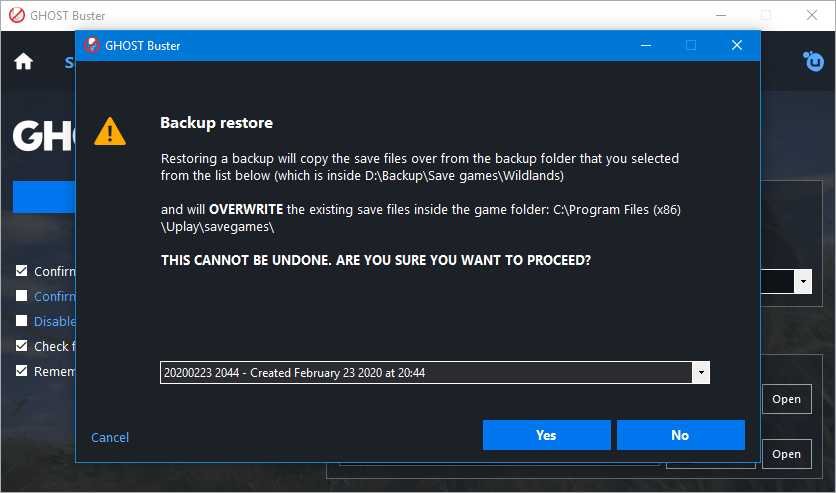
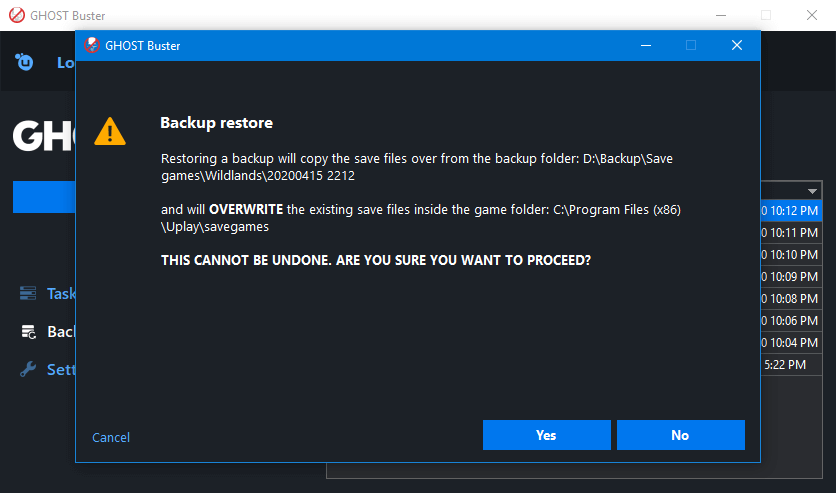
docs: Update Readme, index to reflect new release changes [ci skip]

diff --git a/docs/index.html b/docs/index.html
@@ -68,73 +68,93 @@ description: "Backup and restore Ghost Recon Wildlands save games."
 			<li>When you close it, a file containing the program's settings will be created (or updated if it already exists) inside <code>%LOCALAPPDATA%\GHOSTbackup</code></li>
 		</ul>
 
-		<li>Click the first <kbd><img src="{{ '/assets/img/icon-37-2.png' | relative_url }}" width="14px" height="13px" alt="" draggable="false">Browse...</kbd> button to select Wildlands save games folder</li>
-		<ul><li>Refer to the <a href="https://www.pcgamingwiki.com/wiki/Tom_Clancy%27s_Ghost_Recon_Wildlands#Save_game_data_location">PC Gaming Wiki</a> if you don't know where they are located</li></ul>
+		<li>Click the <kbd><img src="{{ '/assets/img/icon-37-2.png' | relative_url }}" width="14px" height="13px" alt="" draggable="false">Browse...</kbd> button under "<strong>Folders</strong> -> <strong>Wildlands save games folder</strong>" to select Wildlands save games folder</li>
+		<ul><li>Refer to the <a href="https://www.pcgamingwiki.com/wiki/Tom_Clancy%27s_Ghost_Recon_Wildlands#Save_game_data_location">PC Gaming Wiki</a> if you don't know where save games are located</li></ul>
 
-		<li>Click the second <kbd><img src="{{ '/assets/img/icon-37-2.png' | relative_url }}" width="14px" height="13px" alt="" draggable="false">Browse...</kbd> button to select where Wildlands save games will be backed up to</li>
+		<li>Click the <kbd><img src="{{ '/assets/img/icon-37-2.png' | relative_url }}" width="14px" height="13px" alt="" draggable="false">Browse...</kbd> button under "<strong>Folders</strong> -> <strong>Backup location</strong>" to select where Wildlands save games will be backed up to</li>
 		<ul>
-			<li>Each backup will be stored inside a <code>yyyyMMdd HHMM</code> sub-folder</li>
-			<li>GHOST Buster will try to detect the latest backup time stamp and display it in the main screen</li>
+			<li>Each backup will be stored inside a <code>yyyyMMdd HHmm</code> sub-folder</li>
 		</ul>
 
 		<li>Specify the backup frequency and click the <kbd><img src="{{ '/assets/img/icon-34-1.png' | relative_url }}" width="16px" height="14px" alt="" draggable="false">Start Backup</kbd> button. To interrupt the process, click <kbd><img src="{{ '/assets/img/icon-38-2.png' | relative_url }}" width="14px" height="15px" alt="" draggable="false">Stop Backup</kbd></li>
-		<ul><li>You can specify a value between 1 and 60</li></ul>
+		<ul><li>You can specify a value between 1 and 180</li></ul>
 	</ul>
 
-	<h3 id="dead">Dead?</h3>
+	<h3 id="restoring-backup">Restoring a backup</h3>
+
+	<blockquote>
+		<p class="quote-title">Warning</p>
+		<p class="quote-text">
+			Disable cloud synchronization before restoring a backup, otherwise Uplay will redownload the old save games rendering the restore process useless.
+			Also note that restoring a backup will <strong>OVERWRITE</strong> your old save games and it <strong>CANNOT BE UNDONE</strong>.
+		</p>
+	</blockquote>
+
+	<h4>From Tasks screen</h4>
 
 	<ul>
 		<li>Close the game</li>
 		<li>Choose which backup you want to restore</li>
 		<ul>
 			<li><em>Latest</em></li>
-			<ul><li>GHOST Buster will restore the latest backup</li></ul>
 		</ul>
 		<ul>
 			<li><em>Second-to-last</em></li>
-			<ul>
-				<li>GHOST Buster will restore the second-to-last backup</li>
-				<li>If it doesn't exist, you'll be prompted to restore the latest backup instead</li>
-			</ul>
-		</ul>
-		<ul>
-			<li><em>Let me decide</em></li>
-			<ul><li>You can choose which backup to restore</li></ul>
+			<ul><li>If it doesn't exist, you'll be prompted to restore the latest backup instead</li></ul>
 		</ul>
 		<li>Click the <kbd><img src="{{ '/assets/img/icon-39-2.png' | relative_url }}" width="14px" height="16px" alt="" draggable="false">Restore Backup</kbd> button</li>
 	</ul>
 
-	<blockquote>
-	<p class="quote-title">Warning</p>
-	<p class="quote-text">
-		Disable cloud synchronization before restoring a backup, otherwise Uplay will redownload the old save games rendering the restore process useless.
-		Also note that restoring a backup will <strong>OVERWRITE</strong> your old save games and it <strong>CANNOT BE UNDONE</strong>.
-	</p>
-	</blockquote>
+	<h4>From Manage Backups screen</h4>
+
+	<ul>
+		<li>Close the game</li>
+		<li>Right click on the backup you want to restore</li>
+		<li>Click <strong>Restore</strong></li>
+	</ul>
 
 	<h2 id="settings">Settings</h2>
 
 	<ul>
-		<li><strong>Confirm exit (if backup is active)</strong></li>
+		<li><strong>Interface language</strong></li>
+		<ul>
+			<li><em>Default: English</em></li>
+		</ul>
+
+		<li><strong>Confirm exit when backup is running</strong></li>
 		<ul>
 			<li><em>Enabled by default</em></li>
-			<li>The program will warn you before closing it if the backup process is still running</li>
+			<li>The program will show a confirmation dialog before quitting if the backup process is running</li>
 		</ul>
 
 		<li><strong>Confirm backup interruption</strong></li>
 		<ul>
 			<li><em>Disabled by default</em></li>
-			<li>The program will ask you if you're sure you want to interrupt the running backup process</li>
+			<li>The program will show a confirmation dialog before interrupting the backup process</li>
 		</ul>
 
-		<li><strong>Disable Uplay cloud save sync</strong></li>
+		<li><strong>Display notifications about backups</strong></li>
 		<ul>
 			<li><em>Disabled by default</em></li>
-			<li>The program will disable Uplay cloud save synchronization prior restoring save games</li>
+			<li>The program will display a notification at the edge of the screen every time a backup is performed</li>
+			<li>Enable this option only if you play Wildlands in borderless fullscreen or windowed, otherwise the game will lose focus every time the notification is displayed</li>
+		</ul>
+
+		<li><strong>Disable Uplay cloud save synchronization on restore</strong></li>
+		<ul>
+			<li><em>Disabled by default</em></li>
+			<li>The program will disable Uplay cloud save synchronization before restoring a backup</li>
 			<li>Keep in mind that the Uplay settings file may change at any time so this setting may not be reliable</li>
 		</ul>
 
-		<li><strong>Check for updates</strong></li>
+		<li><strong>Enable Uplay cloud save synchronization on exit</strong></li>
+		<ul>
+			<li><em>Enabled by default</em></li>
+			<li><em>Works only if the previous setting is enabled</em></li>
+			<li>The program will re-enable Uplay cloud save synchronization before quitting</li>
+		</ul>
+
+		<li><strong>Check for updates on startup</strong></li>
 		<ul>
 			<li><em>Disabled by default</em></li>
 			<li>The program will connect to GitHub servers to check if the current version is up to date</li>
@@ -145,26 +165,22 @@ description: "Backup and restore Ghost Recon Wildlands save games."
 			<li><em>Disabled by default</em></li>
 			<li>The program will remember the window position the last time GHOST Buster was used</li>
 		</ul>
-	</ul>
-
-	<h3 id="advanced-settings">Advanced Settings</h3>
-	<ul>
-		<li><strong>Write events to a log file</strong></li>
-		<ul>
-			<li><em>Disabled by default</em></li>
-			<li>The program will log all events (such as Errors and Warnings) to a file</li>
-			<li>The default log file path is <code>%LOCALAPPDATA%\GHOSTbackup\event.log</code></li>
-		</ul>
 
 		<li><strong>I'm not using the Uplay version of Wildlands</strong></li>
 		<ul>
 			<li><em>Disabled by default</em></li>
 			<li>You can specify a different location for the Wildlands executable</li>
-			<li>The program needs to be restarted in order for the change to take effect</li>
+		</ul>
+
+		<li><strong>Write events to a log file</strong></li>
+		<ul>
+			<li><em>Disabled by default</em></li>
+			<li>The program will log all events (such as Errors and Warnings) to a file</li>
+			<li>The default log file location is <code>%LOCALAPPDATA%\GHOSTbackup\event.log</code></li>
 		</ul>
 	</ul>
 
-	<p>All settings are stored inside <code>%LOCALAPPDATA%\GHOSTbackup</code></p>
+	<p>All settings are stored inside <code>%LOCALAPPDATA%\GHOSTbackup\ghostbackup.cfg</code></p>
 
 	<h2 id="screenshots">Screenshots</h2>
 
@@ -172,39 +188,57 @@ description: "Backup and restore Ghost Recon Wildlands save games."
 
 	<div class="gallery">
 		<div class="g-list">
-			<div class="g-item" onclick="changeScr('screenshot.png', 'Screenshot of the main screen')">
+			<div class="g-item" onclick="changeScr('screenshot.png', 'Screenshot of Tasks screen')">
 				<img src="{{ '/assets/img/screenshot_icon.png' | relative_url }}" alt="">
-				<strong>Main Screen</strong>
+				<strong>Main screen</strong>
 				<br>
 				<span>The main screen of GHOST Buster</span>
 			</div>
+			<div class="g-item" onclick="changeScr('screenshot_manage.png', 'Screenshot of Backups screen')">
+				<img src="{{ '/assets/img/screenshot_icon.png' | relative_url }}" alt="">
+				<strong>Backups</strong>
+				<br>
+				<span>Manage Backups screen</span>
+			</div>
+			<div class="g-item" onclick="changeScr('screenshot_settings.png', 'Screenshot of Settings screen')">
+				<img src="{{ '/assets/img/screenshot_icon.png' | relative_url }}" alt="">
+				<strong>Settings screen</strong>
+				<br>
+				<span>GHOST Buster settings</span>
+			</div>
+			<div class="g-item" onclick="changeScr('screenshot_notification.jpg', 'Screenshot of backup notification')">
+				<img src="{{ '/assets/img/screenshot_icon.png' | relative_url }}" alt="">
+				<strong>Notification</strong>
+				<br>
+				<span>Notification about the current backup</span>
+			</div>
 			<div class="g-item" onclick="changeScr('screenshot_restore.png', 'Screenshot of the backup restore process')">
 				<img src="{{ '/assets/img/screenshot_icon.png' | relative_url }}" alt="">
-				<strong>Backup Restore</strong>
+				<strong>Backup restore</strong>
 				<br>
 				<span>Restoring a backup</span>
 			</div>
-			<div class="g-item" onclick="changeScr('screenshot_settings.png', 'Screenshot of the advanced settings screen')">
+			<div class="g-item" onclick="changeScr('screenshot_delete.png', 'Screenshot of the backup deletion process')">
 				<img src="{{ '/assets/img/screenshot_icon.png' | relative_url }}" alt="">
-				<strong>Advanced Settings Screen</strong>
+				<strong>Backup deletion</strong>
 				<br>
-				<span>GHOST Buster advanced settings</span>
+				<span>Deleting a backup</span>
 			</div>
 			<div class="g-item" onclick="changeScr('screenshot_logs.png', 'Screenshot of the logs screen')">
 				<img src="{{ '/assets/img/screenshot_icon.png' | relative_url }}" alt="">
-				<strong>Logs Screen</strong>
+				<strong>Logs screen</strong>
 				<br>
 				<span>All the events are logged here</span>
 			</div>
 			<div class="g-item" onclick="changeScr('screenshot_about.png', 'Screenshot of the about screen')">
 				<img src="{{ '/assets/img/screenshot_icon.png' | relative_url }}" alt="">
-				<strong>About Screen</strong>
+				<strong>About screen</strong>
 				<br>
-				<span>Information about GHOST Buster</span>
+				<span>About GHOST Buster</span>
 			</div>
 		</div>
 		<div class="g-scr-cnt">
-			<a id="scr-a" href="{{ '/assets/img/screenshot.png' | relative_url }}"><img id="scr" class="img-responsive" src="{{ '/assets/img/screenshot.png' | relative_url }}" alt="Screenshot of the main screen"></a>
+			<a id="scr-a" href="{{ '/assets/img/screenshot.png' | relative_url }}"><img id="scr" class="img-responsive" src="{{ '/assets/img/screenshot.png' | relative_url }}" alt="Screenshot of Tasks screen"></a>
 		</div>
 	</div>
 

diff --git a/docs/assets/css/styles.scss b/docs/assets/css/styles.scss
@@ -152,6 +152,7 @@ code {
 }
 
 blockquote {
+	margin: 0 auto;
 	color: #cecece;
 	background-color: rgba(51, 51, 51, 0.7);
 }

diff --git a/.github/README.md b/.github/README.md
@@ -36,28 +36,16 @@ I created this software to backup [Ghost Mode](https://web.archive.org/web/20190
   * Every time you launch it, the program will check the System Registry to see if Ghost Recon Wildlands and Uplay are installed
   * When you close it, a file containing the program's settings will be created (or updated if it already exists) inside `%LOCALAPPDATA%\GHOSTbackup`
 
-* Click the first **Browse...** button to select Wildlands save games folder
-  * Refer to the [PC Gaming Wiki](https://www.pcgamingwiki.com/wiki/Tom_Clancy%27s_Ghost_Recon_Wildlands#Save_game_data_location) if you don't know where they are located
+* Click the **Browse...** button under "**Folders** -> **Wildlands save games folder**" to select Wildlands save games folder
+  * Refer to the [PC Gaming Wiki](https://www.pcgamingwiki.com/wiki/Tom_Clancy%27s_Ghost_Recon_Wildlands#Save_game_data_location) if you don't know where save games are located
 
-* Click the second **Browse...** button to select where Wildlands save games will be backed up to
-  * Each backup will be stored inside a `yyyyMMdd HHMM` sub-folder
-  * GHOST Buster will try to detect the latest backup time stamp and display it in the main screen
+* Click the **Browse...** button under "**Folders** -> **Backup location**" to select where Wildlands save games will be backed up to
+  * Each backup will be stored inside a `yyyyMMdd HHmm` sub-folder
 
 * Specify the backup frequency and click the **Start Backup** button. To interrupt the process, click **Stop Backup**
-  * You can specify a value between 1 and 60
+  * You can specify a value between 1 and 180
 
-### Dead?
-
-* Close the game
-* Choose which backup you want to restore
-  * _Latest_
-    * GHOST Buster will restore the latest backup
-  * _Second-to-last_
-    * GHOST Buster will restore the second-to-last backup
-    * If it doesn't exist, you'll be prompted to restore the latest backup instead
-  * _Let me decide_
-    * You can choose which backup to restore
-* Click the **Restore Backup** button
+### Restoring a Backup
 
 > ### ⚠ **WARNING**
 >
@@ -65,22 +53,50 @@ I created this software to backup [Ghost Mode](https://web.archive.org/web/20190
 >
 > Also note that restoring a backup will **OVERWRITE** your old save games and it **CANNOT BE UNDONE**.
 
+#### From Tasks screen
+
+* Close the game
+* Choose which backup you want to restore
+  * _Latest_
+  * _Second-to-last_
+    * If it doesn't exist, you'll be prompted to restore the latest backup instead
+* Click the **Restore Backup** button
+
+#### From Manage Backups screen
+
+* Close the game
+* Right click on the backup you want to restore
+* Click **Restore**
+
 ## Settings
 
-* **Confirm exit (if backup is active)**
+* **Interface language**
+  * *Default: English*
+
+* **Confirm exit when backup is running**
   * _Enabled by default_
-  * The program will warn you before closing it if the backup process is still running
+  * The program will show a confirmation dialog before quitting if the backup process is running
 
 * **Confirm backup interruption**
   * _Disabled by default_
-  * The program will ask you if you're sure you want to interrupt the running backup process
+  * The program will show a confirmation dialog before interrupting the backup process
 
-* **Disable Uplay cloud save sync**
+* **Display notifications about backups**
+  * *Disabled by default*
+  * The program will display a notification at the edge of the screen every time a backup is performed
+  * Enable this option only if you play Wildlands in borderless fullscreen or windowed, otherwise the game will lose focus every time the notification is displayed
+
+* **Disable Uplay cloud save synchronization on restore**
   * _Disabled by default_
-  * The program will disable Uplay cloud save synchronization prior restoring save games
+  * The program will disable Uplay cloud save synchronization before restoring a backup
   * Keep in mind that the Uplay settings file may change at any time so this setting may not be reliable
 
-* **Check for updates**
+* **Enable Uplay cloud save synchronization on exit**
+  * *Enabled by default*
+  * *Works only if the previous setting is enabled*
+  * The program will re-enable Uplay cloud save synchronization before quitting
+
+* **Check for updates on startup**
   * _Disabled by default_
   * The program will connect to GitHub servers to check if the current version is up to date
 
@@ -88,38 +104,46 @@ I created this software to backup [Ghost Mode](https://web.archive.org/web/20190
   * _Disabled by default_
   * The program will remember the window position the last time GHOST Buster was used
 
-### Advanced Settings
+* **I'm not using the Uplay version of Wildlands**
+  * _Disabled by default_
+  * You can specify a different location for the Wildlands executable
 
 * **Write events to a log file**
   * _Disabled by default_
   * The program will log all events (such as Errors and Warnings) to a file
-  * The default log file path is `%LOCALAPPDATA%\GHOSTbackup\event.log`
+  * The default log file location is `%LOCALAPPDATA%\GHOSTbackup\event.log`
 
-* **I'm not using the Uplay version of Wildlands**
-  * _Disabled by default_
-  * You can specify a different location for the Wildlands executable
-  * The program needs to be restarted in order for the change to take effect
-
-All settings are stored inside `%LOCALAPPDATA%\GHOSTbackup`.
+All settings are stored inside `%LOCALAPPDATA%\GHOSTbackup\ghostbackup.cfg`.
 
 ## Screenshots
-
-### GHOST Buster preview
 
 _Click an image to enlarge it_
 
 <table>
   <tr>
-    <th align="center">Main Screen</th>
-    <th align="center">Backup Restore</th>
-    <th align="center">Advanced Settings</th>
-    <th align="center">Logs</th>
-    <th align="center">About</th>
+    <th align="center">Main screen</th>
+    <th align="center">Backups</th>
+    <th align="center">Settings</th>
+    <th align="center">Notification</th>
   </tr>
   <tr>
     <td><img src="https://strappazzon.xyz/GRW-GHOST-Buster/assets/img/screenshot.png"></td>
-    <td><img src="https://strappazzon.xyz/GRW-GHOST-Buster/assets/img/screenshot_restore.png"></td>
+    <td><img src="https://strappazzon.xyz/GRW-GHOST-Buster/assets/img/screenshot_manage.png"></td>
     <td><img src="https://strappazzon.xyz/GRW-GHOST-Buster/assets/img/screenshot_settings.png"></td>
+    <td><img src="https://strappazzon.xyz/GRW-GHOST-Buster/assets/img/screenshot_notification.png"></td>
+  </tr>
+</table>
+
+<table>
+  <tr>
+    <th align="center">Backup restore</th>
+    <th align="center">Backup deletion</th>
+    <th align="center">Logs screen</th>
+    <th align="center">About screen</th>
+  </tr>
+  <tr>
+    <td><img src="https://strappazzon.xyz/GRW-GHOST-Buster/assets/img/screenshot_restore.png"></td>
+    <td><img src="https://strappazzon.xyz/GRW-GHOST-Buster/assets/img/screenshot_delete.png"></td>
     <td><img src="https://strappazzon.xyz/GRW-GHOST-Buster/assets/img/screenshot_logs.png"></td>
     <td><img src="https://strappazzon.xyz/GRW-GHOST-Buster/assets/img/screenshot_about.png"></td>
   </tr>
@@ -133,9 +157,9 @@ You can [download](https://github.com/Strappazzon/GRW-GHOST-Buster/releases/late
 
 If you are interested in fixing issues and contributing directly to the code base, please see:
 
-* [Building GHOST Buster from its source code](https://github.com/Strappazzon/GRW-GHOST-Buster/blob/master/src/BUILDING.md)
 * [Contribution Guidelines](./CONTRIBUTING.md)
 * [Code of Conduct](./CODE_OF_CONDUCT.md)
+* [Building GHOST Buster from its source code](https://github.com/Strappazzon/GRW-GHOST-Buster/blob/master/src/BUILDING.md)
 
 ## License
 
